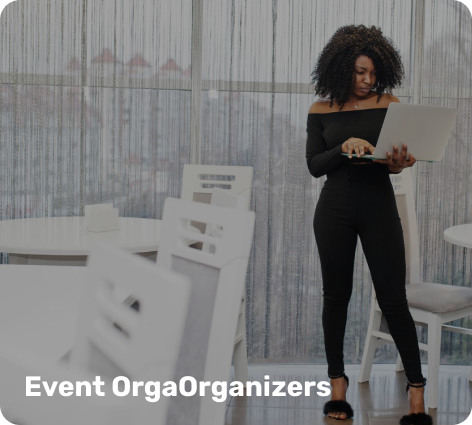
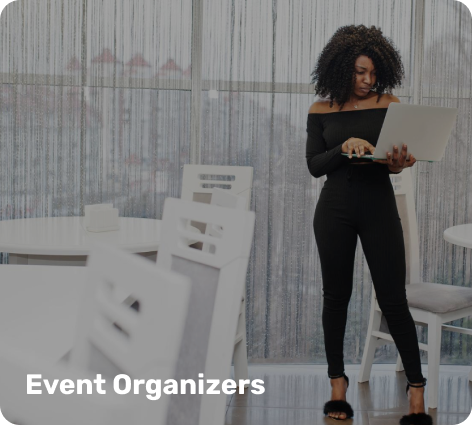
@add/ done with carousel and added updated images for slider

Changed region(s): [[0.0593, 0.8565, 0.7119, 0.9482]]

diff --git a/src/components/Carousel.jsx b/src/components/Carousel.jsx
@@ -1,0 +1,161 @@
+import { slide1, slide2, slide3, slide4, slide5, slide6, slide7, slide8 } from '../assets'
+
+const Carousel = () => {
+  return (
+    <section className='banner-wraper'>
+        <div className='wraper'>
+            <div className='images flex gap-6 px-5'>
+                <div className='relative holder bg-black h-[540px] w-[600px] overflow-hidden rounded-[40px] transition-all'>
+                    <img className='w-full cursor-pointer' src={slide1} alt="" />
+                    <span className='w-full px-20 absolute hidden text-white top-[50%] left-[50%] hov_txt'>
+                        <h1 className='text-primary-300 text-[1.5rem] text-center'>Freelancers and Creatives</h1>
+                        <p className='my-4 text-wrap leading-7 text-center'>
+                            Dreally provides a platform for freelancers, artists, designers, and creatives to showcase their portfolios, connect with clients, and promote their services.
+                        </p>
+                    </span>
+                </div>
+                <div className='relative holder bg-black h-[540px] w-[600px] overflow-hidden rounded-[40px] transition-all'>
+                    <img className='w-full cursor-pointer' src={slide2} alt="" />
+                    <span className='w-full px-20 absolute hidden text-white top-[50%] left-[50%] hov_txt'>
+                        <h1 className='text-primary-300 text-[1.5rem] text-center'>Professional Services</h1>
+                        <p className='my-4 text-wrap leading-7 text-center'>
+                            Professionals in industries such as legal, finance, and real estate can use Dreally to create digital business cards, share contact information, and connect with potential clients or customers.
+                        </p>
+                    </span>
+                </div>
+                <div className='relative holder bg-black h-[540px] w-[600px] overflow-hidden rounded-[40px] transition-all'>
+                    <img className='w-full cursor-pointer' src={slide3} alt="" />
+                    <span className='w-full px-20 absolute hidden text-white top-[50%] left-[50%] hov_txt'>
+                        <h1 className='text-primary-300 text-[1.5rem] text-center'>Content Creators</h1>
+                        <p className='my-4 text-wrap leading-7 text-center'>
+                            Content creators, including bloggers, vloggers, and influencers, can use Dreally to promote their content, connect with their audience, and collaborate with brands and sponsors.
+                        </p>
+                    </span>
+                </div>
+                <div className='relative holder bg-black h-[540px] w-[600px] overflow-hidden rounded-[40px] transition-all'>
+                    <img className='w-full cursor-pointer' src={slide4} alt="" />
+                    <span className='w-full px-20 absolute hidden text-white top-[50%] left-[50%] hov_txt'>
+                        <h1 className='text-primary-300 text-[1.5rem] text-center'>Event Organizers</h1>
+                        <p className='my-4 text-wrap leading-7 text-center'>
+                            Event organizers can leverage Dreally to create event-specific digital business cards, share event details, and connect with attendees before, during, and after the event.
+                        </p>
+                    </span>
+                </div>
+                <div className='relative holder bg-black h-[540px] w-[600px] overflow-hidden rounded-[40px] transition-all'>
+                    <img className='w-full cursor-pointer' src={slide5} alt="" />
+                    <span className='w-full px-20 absolute hidden text-white top-[50%] left-[50%] hov_txt'>
+                        <h1 className='text-primary-300 text-[1.5rem] text-center'>Small Businesses</h1>
+                        <p className='my-4 text-wrap leading-7 text-center'>
+                            Small businesses can benefit from Dreally{"'"}s e-commerce capabilities by showcasing and selling their products directly from their profiles, reaching a wider audience, and driving sales.
+                        </p>
+                    </span>
+                </div>
+                <div className='relative holder bg-black h-[540px] w-[600px] overflow-hidden rounded-[40px] transition-all'>
+                    <img className='w-full cursor-pointer' src={slide6} alt="" />
+                    <span className='w-full px-20 absolute hidden text-white top-[50%] left-[50%] hov_txt'>
+                        <h1 className='text-primary-300 text-[1.5rem] text-center'>Job Seekers</h1>
+                        <p className='my-4 text-wrap leading-7 text-center'>
+                            Job seekers can use Dreally to create professional profiles, showcase their skills and achievements, and network with potential employers and recruiters in their industry.
+                        </p>
+                    </span>
+                </div>
+                <div className='relative holder bg-black h-[540px] w-[600px] overflow-hidden rounded-[40px] transition-all'>
+                    <img className='w-full cursor-pointer' src={slide7} alt="" />
+                    <span className='w-full px-20 absolute hidden text-white top-[50%] left-[50%] hov_txt'>
+                        <h1 className='text-primary-300 text-[1.5rem] text-center'>Educators and Coaches</h1>
+                        <p className='my-4 text-wrap leading-7 text-center'>
+                            Educators, coaches, and trainers can use Dreally to showcase their expertise, promote their courses and services, and connect with students or clients seeking guidance and support.
+                        </p>
+                    </span>
+                </div>
+                <div className='relative holder bg-black h-[540px] w-[600px] overflow-hidden rounded-[40px] transition-all'>
+                    <img className='w-full cursor-pointer' src={slide8} alt="" />
+                    <span className='w-full px-20 absolute hidden text-white top-[50%] left-[50%] hov_txt'>
+                        <h1 className='text-primary-300 text-[1.5rem] text-center'>Business Professionals</h1>
+                        <p className='my-4 text-wrap leading-7 text-center'>
+                            Business professionals, including entrepreneurs, consultants, and executives, can use Dreally to create digital business cards, network with industry peers, and establish their online presence.
+                        </p>
+                    </span>
+                </div>
+            </div>
+
+            <div className='images flex gap-6 px-5'>
+                <div className='relative holder bg-black h-[540px] w-[600px] overflow-hidden rounded-[40px] transition-all'>
+                    <img className='w-full cursor-pointer' src={slide1} alt="" />
+                    <span className='w-full px-20 absolute hidden text-white top-[50%] left-[50%] hov_txt'>
+                        <h1 className='text-primary-300 text-[1.5rem] text-center'>Freelancers and Creatives</h1>
+                        <p className='my-4 text-wrap leading-7 text-center'>
+                            Dreally provides a platform for freelancers, artists, designers, and creatives to showcase their portfolios, connect with clients, and promote their services.
+                        </p>
+                    </span>
+                </div>
+                <div className='relative holder bg-black h-[540px] w-[600px] overflow-hidden rounded-[40px] transition-all'>
+                    <img className='w-full cursor-pointer' src={slide2} alt="" />
+                    <span className='w-full px-20 absolute hidden text-white top-[50%] left-[50%] hov_txt'>
+                        <h1 className='text-primary-300 text-[1.5rem] text-center'>Professional Services</h1>
+                        <p className='my-4 text-wrap leading-7 text-center'>
+                            Professionals in industries such as legal, finance, and real estate can use Dreally to create digital business cards, share contact information, and connect with potential clients or customers.
+                        </p>
+                    </span>
+                </div>
+                <div className='relative holder bg-black h-[540px] w-[600px] overflow-hidden rounded-[40px] transition-all'>
+                    <img className='w-full cursor-pointer' src={slide3} alt="" />
+                    <span className='w-full px-20 absolute hidden text-white top-[50%] left-[50%] hov_txt'>
+                        <h1 className='text-primary-300 text-[1.5rem] text-center'>Content Creators</h1>
+                        <p className='my-4 text-wrap leading-7 text-center'>
+                            Content creators, including bloggers, vloggers, and influencers, can use Dreally to promote their content, connect with their audience, and collaborate with brands and sponsors.
+                        </p>
+                    </span>
+                </div>
+                <div className='relative holder bg-black h-[540px] w-[600px] overflow-hidden rounded-[40px] transition-all'>
+                    <img className='w-full cursor-pointer' src={slide4} alt="" />
+                    <span className='w-full px-20 absolute hidden text-white top-[50%] left-[50%] hov_txt'>
+                        <h1 className='text-primary-300 text-[1.5rem] text-center'>Event Organizers</h1>
+                        <p className='my-4 text-wrap leading-7 text-center'>
+                            Event organizers can leverage Dreally to create event-specific digital business cards, share event details, and connect with attendees before, during, and after the event.
+                        </p>
+                    </span>
+                </div>
+                <div className='relative holder bg-black h-[540px] w-[600px] overflow-hidden rounded-[40px] transition-all'>
+                    <img className='w-full cursor-pointer' src={slide5} alt="" />
+                    <span className='w-full px-20 absolute hidden text-white top-[50%] left-[50%] hov_txt'>
+                        <h1 className='text-primary-300 text-[1.5rem] text-center'>Small Businesses</h1>
+                        <p className='my-4 text-wrap leading-7 text-center'>
+                            Small businesses can benefit from Dreally{"'"}s e-commerce capabilities by showcasing and selling their products directly from their profiles, reaching a wider audience, and driving sales.
+                        </p>
+                    </span>
+                </div>
+                <div className='relative holder bg-black h-[540px] w-[600px] overflow-hidden rounded-[40px] transition-all'>
+                    <img className='w-full cursor-pointer' src={slide6} alt="" />
+                    <span className='w-full px-20 absolute hidden text-white top-[50%] left-[50%] hov_txt'>
+                        <h1 className='text-primary-300 text-[1.5rem] text-center'>Job Seekers</h1>
+                        <p className='my-4 text-wrap leading-7 text-center'>
+                            Job seekers can use Dreally to create professional profiles, showcase their skills and achievements, and network with potential employers and recruiters in their industry.
+                        </p>
+                    </span>
+                </div>
+                <div className='relative holder bg-black h-[540px] w-[600px] overflow-hidden rounded-[40px] transition-all'>
+                    <img className='w-full cursor-pointer' src={slide7} alt="" />
+                    <span className='w-full px-20 absolute hidden text-white top-[50%] left-[50%] hov_txt'>
+                        <h1 className='text-primary-300 text-[1.5rem] text-center'>Educators and Coaches</h1>
+                        <p className='my-4 text-wrap leading-7 text-center'>
+                            Educators, coaches, and trainers can use Dreally to showcase their expertise, promote their courses and services, and connect with students or clients seeking guidance and support.
+                        </p>
+                    </span>
+                </div>
+                <div className='relative holder bg-black h-[540px] w-[600px] overflow-hidden rounded-[40px] transition-all'>
+                    <img className='w-full cursor-pointer' src={slide8} alt="" />
+                    <span className='w-full px-20 absolute hidden text-white top-[50%] left-[50%] hov_txt'>
+                        <h1 className='text-primary-300 text-[1.5rem] text-center'>Business Professionals</h1>
+                        <p className='my-4 text-wrap leading-7 text-center'>
+                            Business professionals, including entrepreneurs, consultants, and executives, can use Dreally to create digital business cards, network with industry peers, and establish their online presence.
+                        </p>
+                    </span>
+                </div>
+            </div>
+        </div>
+    </section>
+  )
+}
+
+export default Carousel

diff --git a/src/components/Info.jsx b/src/components/Info.jsx
@@ -10,7 +10,7 @@ const Info = () => {
     <section className='w-full flex items-center justify-evenly gap-14 pt-28 py-10 px-20'>
         <div className='w-full p-5 flex items-center justify-center overflow-hidden'>
             <Swiper
-                className='w-full bg-neutral-100 relative rounded-3xl overflow-hidden'
+                className='w-full rounded-3xl overflow-hidden'
                 modules={[Autoplay ]}
                 grabCursor={true}
                 autoplay={{
@@ -29,7 +29,7 @@ const Info = () => {
 
         <div className='w-full p-5'>
             <h1 className='font-extrabold text-[3rem]'>
-                Craft and personalize your Dreally profile in mere minutes
+                Craft and personalize your Dreally profile in minutes
             </h1>
             <p className='text-neutral-300 leading-6 py-4'>
                 Welcome to Dreally, your ultimate networking companion! We{"'"}re here to revolutionize the way you connect, showcase your talents, and elevate your professional presence online. With sleek digital business cards, customizable portfolios, and seamless networking tools, Dreally empowers you to make meaningful connections and stand out in a crowded digital landscape. Join us and unlock new opportunities for success. Together, let{"'"}s redefine networking

diff --git a/src/components/Footer.jsx b/src/components/Footer.jsx
@@ -2,7 +2,7 @@ import { insta, tiktok, twitter, dreally } from '../assets'
 
 const Footer = () => {
   return (
-    <footer className='w-full flex flex-col items-center gap-20'>
+    <footer className='w-full flex flex-col items-center gap-20 px-4 sm:px-8 md:px-12 lg:px-20 xl:px-40'>
       <div className='w-full mx-auto max-w-[1100px] h-[400px] bg-vector object-cover bg-no-repeat bg-center bg-primary-500 rounded-3xl flex flex-col items-center justify-center gap-12'>
         <h1 className='text-white font-extrabold text-[2.5rem] max-w-[600px] text-center'>Start Creating your free portfolio for any industry today</h1>
         <button className='cursor-pointer bg-white font-bold text-primary-500 text-[1rem] px-24 py-5 border-none rounded-3xl'>Get Started</button>

diff --git a/src/index.css b/src/index.css
@@ -24,3 +24,43 @@
   border-bottom: 1px solid lightgray;
 }
 
+
+.images {
+  display: flex;
+  animation:  swipe 80000ms linear infinite;
+}
+
+@keyframes swipe {
+  0% {
+    transform: translateX(0);
+  }
+  100% {
+    transform: translateX(-100%);
+  }
+}
+
+.banner-wraper {
+  width: 100%;
+  height: fit-content;
+  overflow: hidden;
+}
+
+.wraper {
+  display: flex;
+}
+
+.banner-wraper:hover .wraper .images {
+  animation-play-state: paused;
+}
+
+.holder:hover img {
+  opacity: 0.1;
+}
+
+.holder:hover span {
+  display: block;
+}
+ 
+.hov_txt {
+  transform: translate(-50%, -50%)
+}

diff --git a/src/components/Slider.jsx b/src/components/Slider.jsx
@@ -1,9 +1,8 @@
-/* eslint-disable react/no-unknown-property */
 import { Swiper, SwiperSlide } from 'swiper/react';
 import { Autoplay } from 'swiper/modules';
 // Import Swiper styles
 import 'swiper/css/bundle';
-
+import Carousel from './Carousel';
 
 const Slider = () => {
 
@@ -49,9 +48,10 @@ const Slider = () => {
         </span></h1>
       </div>
 
-      <div className='w-full my-20'>
-          
+      <div className='w-full my-10'>
+        <Carousel />
       </div>
+
     </section>
   )
 }

diff --git a/src/components/GetStarted.jsx b/src/components/GetStarted.jsx
@@ -14,7 +14,7 @@ const GetStarted = () => {
   let counter = 1
 
   return (
-    <section className="w-full flex items-start justify-between gap-20">
+    <section className="w-full flex items-start justify-between gap-20 px-4 sm:px-8 md:px-12 lg:px-20 xl:px-40">
       <div className="flex flex-col gap-5 w-full">
         <h1 className="font-extrabold text-[3rem] max-w-[700px]">Learn how to get started with Dreally</h1>
         <p className="text-neutral-300 leading-6 max-w-[500px]">

diff --git a/src/components/Hero.jsx b/src/components/Hero.jsx
@@ -11,7 +11,7 @@ const Hero = () => {
 
 
   return (
-    <section className="w-full flex items-center h-[90vh] justify-between">
+    <section className="w-full flex items-center h-[90vh] justify-between px-4 sm:px-8 md:px-12 lg:px-20 xl:px-40">
       <div className="flex flex-col gap-5 items-start w-[50%] mb-20">
         <h1 className="font-bold text-[4rem] max-w leading-[4.6rem]">
           Empower your online presence with Dreally, your all in one platform.

diff --git a/src/components/Navbar.jsx b/src/components/Navbar.jsx
@@ -4,7 +4,7 @@ import { navLinks } from '../constants'
 
 const Navbar = () => {
   return (
-    <section className='w-full sticky top-10 z-50'>
+    <section className='w-full sticky top-10 z-50 px-4 sm:px-8 md:px-12 lg:px-20 xl:px-40'>
       <nav className='w-full py-4 px-4 bg-primary-50 flex items-center justify-between rounded-[100px]'>
         <div className='flex items-center gap-8'>
           <Link to='/'>

diff --git a/src/components/FaQs.jsx b/src/components/FaQs.jsx
@@ -12,7 +12,7 @@ const FaQs = () => {
   }
 
   return (
-    <section className="w-full flex items-center justify-center py-48">
+    <section className="w-full flex items-center justify-center py-48 px-4 sm:px-8 md:px-12 lg:px-20 xl:px-40">
       <div className="flex flex-col gap-5">
         <div className="text-center">
           <h1 className="text-[2rem] font-extrabold">Frequently Asked Questions</h1>

diff --git a/src/components/Services.jsx b/src/components/Services.jsx
@@ -33,7 +33,7 @@ const Services = () => {
 
 
   return (
-    <section className='w-full'>
+    <section className='w-full px-4 sm:px-8 md:px-12 lg:px-20 xl:px-40'>
       <h1 className='text-center font-bold text-4xl tracking-tighter pb-10'>why Dreally?</h1>
       <div className='my-10 w-full flex items-start justify-center gap-16'>
         {why.map((data) => (

diff --git a/src/components/index.js b/src/components/index.js
@@ -9,6 +9,7 @@ import Solutions from './Solutions'
 import Accordion from './Accordion'
 import Info from './Info'
 import Slider from './Slider'
+import Carousel from './Carousel'
 
 export {
     FaQs,
@@ -21,5 +22,6 @@ export {
     Solutions,
     Accordion,
     Info,
-    Slider
+    Slider,
+    Carousel
 }

diff --git a/src/components/Features.jsx b/src/components/Features.jsx
@@ -4,7 +4,7 @@ import { Accordion } from '../components'
 
 const Features = () => {
   return (
-    <section className="my-20">
+    <section className="my-20 px-4 sm:px-8 md:px-12 lg:px-20 xl:px-40">
       <h1 className="font-bold text-4xl ">All Available Features</h1>
 
       <div className="my-10">
